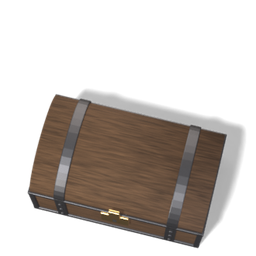
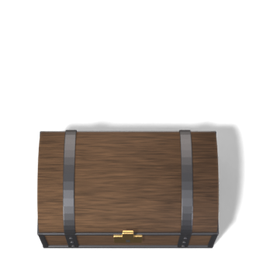
Zoo missing-model check per display; top-down trapdoor on 3D floor; chest unrotated

Changed region(s): [[0.0938, 0.3438, 0.9688, 1.0]]

diff --git a/tools/render/traps.py b/tools/render/traps.py
@@ -1,6 +1,7 @@
 """Floor traps -> Media/Traps as 256px icons (world objects).  Ids are the game's OPIT / OTRAPDOOR / OTELEPORTER / OTRAPARROW / ODARTRAP.
 Usage: [JOBS=4] python3 traps.py [slug ...]   (no args = all)
 <slug> is the 35 degree view (the 2D map, a little isometric); <slug>_<angle> the views for the game camera's 30-80 degrees, every 5.
+trapdoor_top: straight down, laid flat on the floor of the 3D view.
 """
 import runner
 
@@ -16,7 +17,8 @@ T = [
 FRAME = 320
 VIEW = dict(shadow_cut=24, frame=FRAME, align="bottom")
 T = [(i, slug, dict(p, elev=35, **VIEW)) for i, slug, p in T] + \
-    [(i, f"{slug}_{e}", dict(p, elev=e, **VIEW)) for i, slug, p in T for e in range(30, 81, 5)]
+    [(i, f"{slug}_{e}", dict(p, elev=e, **VIEW)) for i, slug, p in T for e in range(30, 81, 5)] + \
+    [(75, "trapdoor_top", dict(kind="trapdoor", elev=90, **VIEW))]   # straight down: laid on the 3D floor (V.FLAT)
 
 if __name__ == "__main__":
     runner.main("build_pit.py", T, "Traps", "trap", size=256)   # world object: 256

diff --git a/tools/render/build_item.py b/tools/render/build_item.py
@@ -180,7 +180,6 @@ def chest():
     box(-0.07, 0.07, -D - 0.07, -D - 0.03, Hb - 0.12, Hb + 0.25, bm=lock)   # the hasp down from the lid
     obj("Lock", lock, mat("Brass", (0.75, 0.5, 0.2), Metallic=1.0, Roughness=0.3)[0], smooth=False, bevel=0.01)
     obj("Keyhole", box(-0.025, 0.025, -D - 0.055, -D - 0.045, Hb - 0.32, Hb - 0.2), BLACK, smooth=False)
-    root.rotation_euler = (0, 0, math.radians(-14))
     return Vector((0, 0, -0.65))
 
 def amulet():
